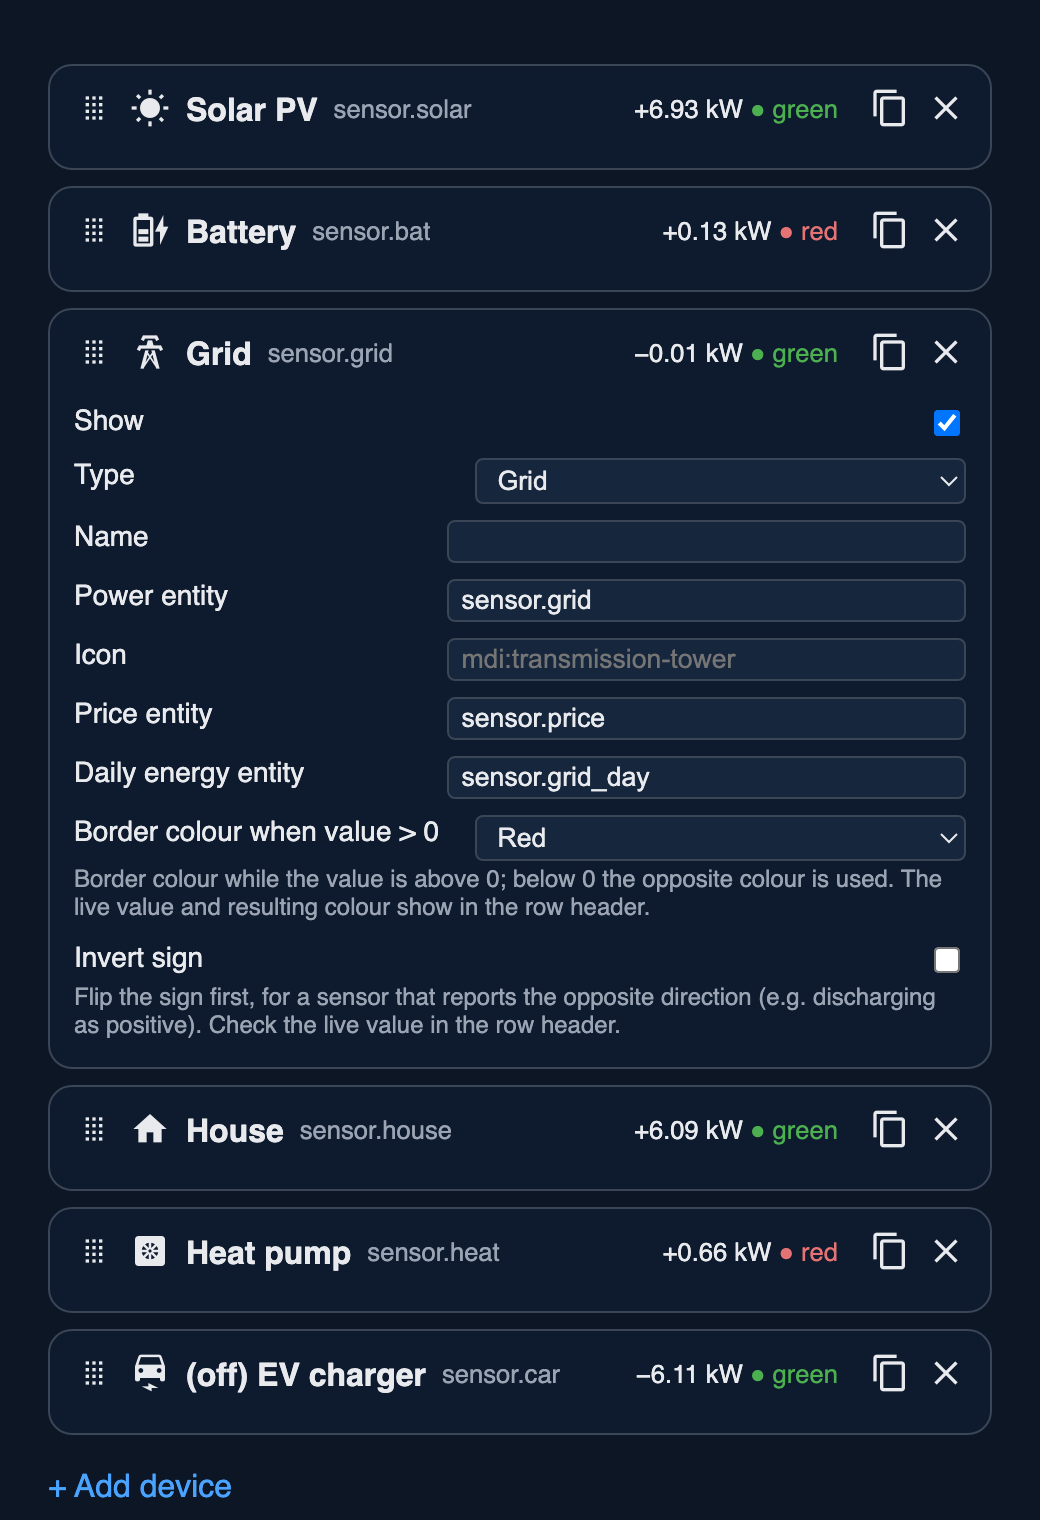
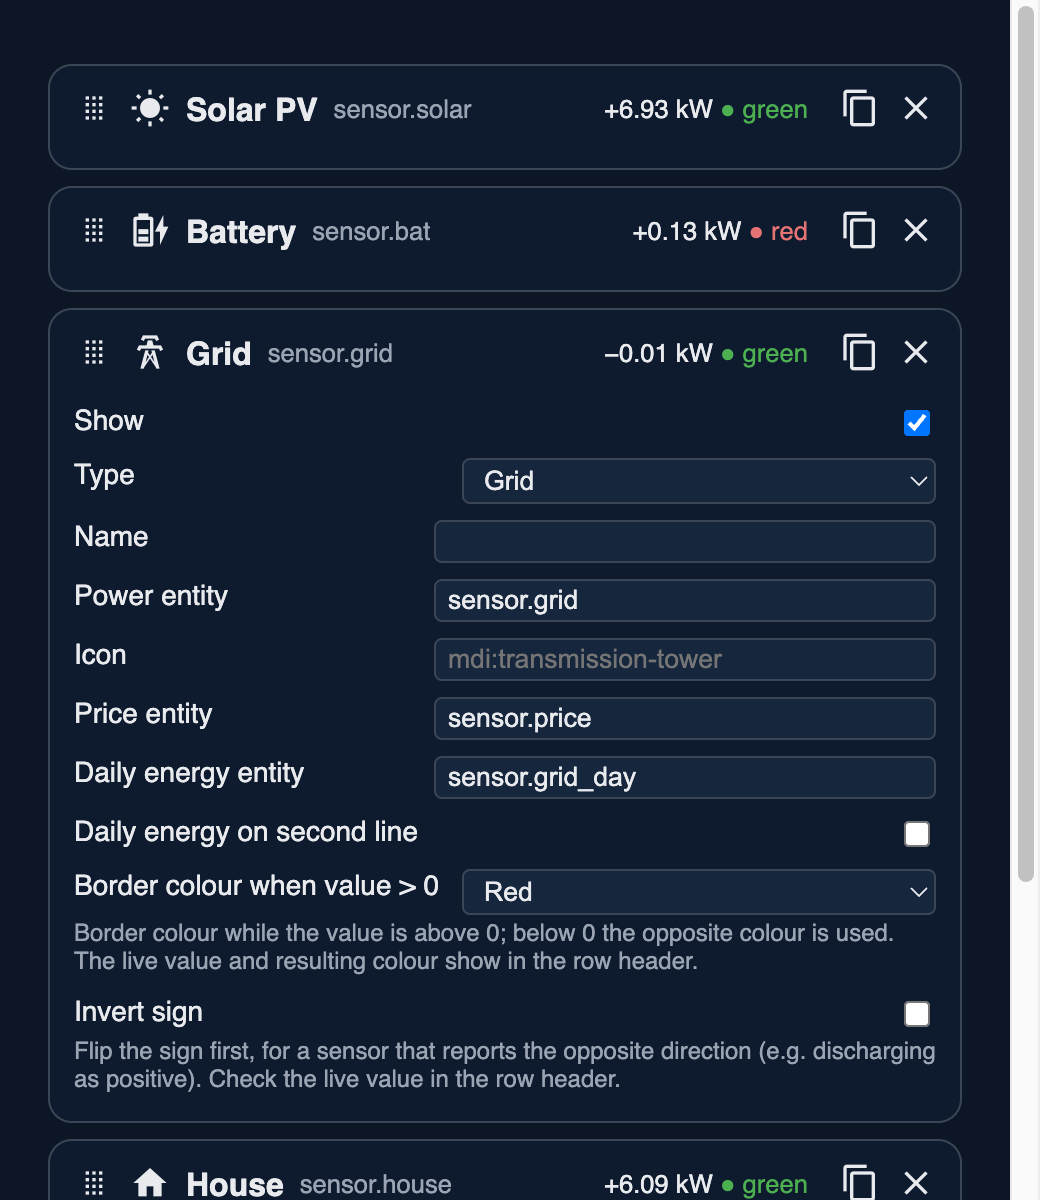
Optional daily_line: daily energy on a second line in the pill

diff --git a/slim-energy-card.js b/slim-energy-card.js
@@ -51,6 +51,8 @@ class SlimEnergyCard extends HTMLElement {
           .ic { display: flex; --mdc-icon-size: 20px; font-size: 18px; flex: none; }
           .v { font-weight: 600; }
           .x { color: var(--secondary-text-color); font-size: .85em; overflow: hidden; text-overflow: ellipsis; }
+          .t { display: flex; flex-direction: column; min-width: 0; }
+          .r { display: flex; align-items: center; gap: 6px; min-width: 0; }
         </style>
         <ha-card><div class="grid"></div></ha-card>`;
     }
@@ -102,7 +104,12 @@ class SlimEnergyCard extends HTMLElement {
       if (!isNaN(soc)) parts.push(`${Math.round(soc)}%`);
     }
     const [d, du] = this._sum([c.daily_entity, c.daily_entity_2], true);
-    if (!isNaN(d)) parts.push(`${d.toFixed(1)} ${du}`.trim());
+    let line2 = "";
+    if (!isNaN(d)) {
+      const t = `${d.toFixed(1)} ${du}`.trim();
+      if (c.daily_line) line2 = `<span class="x">${t}</span>`;
+      else parts.push(t);
+    }
     const price = c.price_entity || this._config.price_entity; // card-level kept for old configs
     if (c.type === "grid" && price) {
       const [p, ps] = this._num(price);
@@ -120,7 +127,7 @@ class SlimEnergyCard extends HTMLElement {
       }
     }
     const ic = `<span class="ic">${iconHtml(icon)}</span>`;
-    return `<div class="f ${color}" data-e="${c.entity}"${style} title="${(c.name || "").replace(/"/g, "&quot;")}">${ic}<span class="v">${val}</span><span class="x">${extra}</span></div>`;
+    return `<div class="f ${color}" data-e="${c.entity}"${style} title="${(c.name || "").replace(/"/g, "&quot;")}">${ic}<div class="t"><div class="r"><span class="v">${val}</span><span class="x">${extra}</span></div>${line2}</div></div>`;
   }
 
   _render() {
@@ -142,7 +149,7 @@ const sel = (options) => ({ select: { options, mode: "dropdown" } });
 const TYPE_OPTIONS = Object.entries(TYPES).map(([value, t]) => ({ value, label: t.label }));
 const LABELS = {
   enabled: "Show", type: "Type", name: "Name", entity: "Power entity", icon: "Icon",
-  entity_2: "Second power entity (optional, added)", daily_entity_2: "Second daily energy entity (optional, added)", soc_entity: "Battery SoC entity", soc_fill: "Fill pill by state of charge", daily_entity: "Daily energy entity",
+  entity_2: "Second power entity (optional, added)", daily_entity_2: "Second daily energy entity (optional, added)", soc_entity: "Battery SoC entity", soc_fill: "Fill pill by state of charge", daily_entity: "Daily energy entity", daily_line: "Daily energy on second line",
   positive_color: "Border colour when value > 0", invert: "Invert sign", price_entity: "Price entity",
 };
 const bool = { boolean: {} };
@@ -157,13 +164,14 @@ const schemaFor = (type) => [
   ...(type === "battery" ? [{ name: "soc_entity", selector: ent({ device_class: "battery" }) }, { name: "soc_fill", selector: bool }] : []),
   ...(type === "grid" ? [{ name: "price_entity", selector: ent() }] : []),
   { name: "daily_entity", selector: ent({ device_class: "energy" }) },
+  { name: "daily_line", selector: bool },
   ...(type === "solar" ? [{ name: "daily_entity_2", selector: ent({ device_class: "energy" }) }] : []),
   { name: "positive_color", selector: sel([{ value: "green", label: "Green" }, { value: "red", label: "Red" }]),
     helper: "Border colour while the value is above 0; below 0 the opposite colour is used. The live value and resulting colour show in the row header." },
   { name: "invert", selector: bool,
     helper: "Flip the sign first, for a sensor that reports the opposite direction (e.g. discharging as positive). Check the live value in the row header." },
 ];
-const MANAGED = ["enabled", "type", "name", "entity", "entity_2", "icon", "soc_entity", "soc_fill", "price_entity", "daily_entity", "daily_entity_2", "positive_color", "invert"];
+const MANAGED = ["enabled", "type", "name", "entity", "entity_2", "icon", "soc_entity", "soc_fill", "price_entity", "daily_entity", "daily_entity_2", "daily_line", "positive_color", "invert"];
 
 class SlimEnergyCardEditor extends HTMLElement {
   _nk = 0;
@@ -283,6 +291,7 @@ class SlimEnergyCardEditor extends HTMLElement {
         const dflt = v.type !== type && v.positive_color === TYPES[type].color ? TYPES[v.type].color : v.positive_color;
         if (dflt && dflt !== TYPES[v.type].color) n.positive_color = dflt;
         if (v.invert) n.invert = true;
+        if (v.daily_line) n.daily_line = true;
         if (v.type === "battery" && v.soc_fill) n.soc_fill = true;
         if (!v.enabled) n.enabled = false;
         entities[i] = { ...kept, ...n };

diff --git a/preview.html b/preview.html
@@ -74,7 +74,7 @@
   const show = (c) => (document.getElementById("yaml").textContent = JSON.stringify(c, null, 1));
   const config = {
     entities: [
-      { entity: "sensor.solar", type: "solar", entity_2: "sensor.solar2", daily_entity: "sensor.solar_day", daily_entity_2: "sensor.solar2_day" },
+      { entity: "sensor.solar", type: "solar", entity_2: "sensor.solar2", daily_entity: "sensor.solar_day", daily_entity_2: "sensor.solar2_day", daily_line: true },
       { entity: "sensor.bat", type: "battery", soc_entity: "sensor.soc", soc_fill: true },
       { entity: "sensor.grid", type: "grid", price_entity: "sensor.price", daily_entity: "sensor.grid_day" },
       { entity: "sensor.house", type: "home", name: "House", daily_entity: "sensor.house_day" },

diff --git a/AGENTS.md b/AGENTS.md
@@ -15,6 +15,7 @@ HACS Lovelace card (`custom:slim-energy-card`). Goal: very simple, slim energy o
 - Border colour from sign: value > 0 uses `positive_color` (`green` default, or `red`), value < 0 the opposite. `invert: true` flips the sign first. `abs(kW) <= threshold` (default 0.005) = neutral border.
 - Bracket text, parts joined with ` · `, in order: battery SoC (`soc_entity`, `52%`), daily energy (`daily_entity`, kWh, Wh converted, 1 decimal), grid price (only `type: grid`, from its `price_entity`, 2 decimals + its unit).
   - Solar: `daily_entity` = daily production. Grid: `daily_entity` = daily use, e.g. `(4.2 kWh · 0.28 €/kWh)`.
+- `daily_line: true`: daily energy goes on a second line (muted text under the value) instead of into the brackets; saves width.
 - Battery `soc_fill: true` (needs `soc_entity`): pill background filled left to right to SoC%, gradient red to hsl(SoC*1.2) (red low, green high). Off by default.
 - Solar only: `entity_2` and `daily_entity_2` (second inverter) are summed with `entity` / `daily_entity` (`_sum`, W to kW, Wh to kWh; unavailable ones skipped). Tap opens more-info of `entity`.
 - Icon per entity: any `mdi:...` (via `ha-icon`) or emoji. Defaults per type are standard MDI icons (`TYPES`): sun `mdi:white-balance-sunny`, battery `mdi:battery-charging-medium`, grid `mdi:transmission-tower`, home `mdi:home`, heat pump `mdi:heat-pump`, EV `mdi:car-electric`, other `mdi:flash`. Chosen to match what the owner had configured by hand; no coloured/embedded icons (rejected). Editor icon picker shows the type default as placeholder.
@@ -25,7 +26,7 @@ HACS Lovelace card (`custom:slim-energy-card`). Goal: very simple, slim energy o
 
 ## Config
 Card: `entities` (required). Legacy card-level `price_entity` still read as fallback.
-Entity: `type` (solar|battery|grid|home|heatpump|ev|other), `name` (tooltip/editor label), `enabled` (false = hidden), `entity`, `icon`, `soc_entity` (battery), `soc_fill` (battery), `price_entity` (grid), `daily_entity`, `positive_color`, `invert`, `decimals` (2), `threshold` (0.005).
+Entity: `type` (solar|battery|grid|home|heatpump|ev|other), `name` (tooltip/editor label), `enabled` (false = hidden), `entity`, `icon`, `soc_entity` (battery), `soc_fill` (battery), `price_entity` (grid), `daily_entity`, `daily_line`, `positive_color`, `invert`, `decimals` (2), `threshold` (0.005).
 
 ## Not included (add only on request)
 Status words ("Producing", "Using"), visual editor, translations, per-field click actions, auto sizing to content.

diff --git a/README.md b/README.md
@@ -68,6 +68,7 @@ The border shows the direction of the energy, not whether it is "good":
 | `soc_entity` | | Battery only: state of charge, shown as `(52%)` |
 | `soc_fill` | `false` | Battery only: fill the pill from the left up to the state of charge, with a red to green gradient |
 | `daily_entity_2` | | Solar only: second daily energy sensor, added to `daily_entity` |
+| `daily_line` | `false` | Show the daily energy on a second line in the pill instead of in brackets |
 | `price_entity` | | Grid only: price, shown in brackets |
 | `daily_entity` | | Daily energy sensor in kWh or Wh, shown in brackets |
 | `positive_color` | per type | Border colour when the value is above 0: `green` or `red`. Solar, home, other: green. Battery, grid, heat pump, EV: red. The opposite colour is used below 0. |
